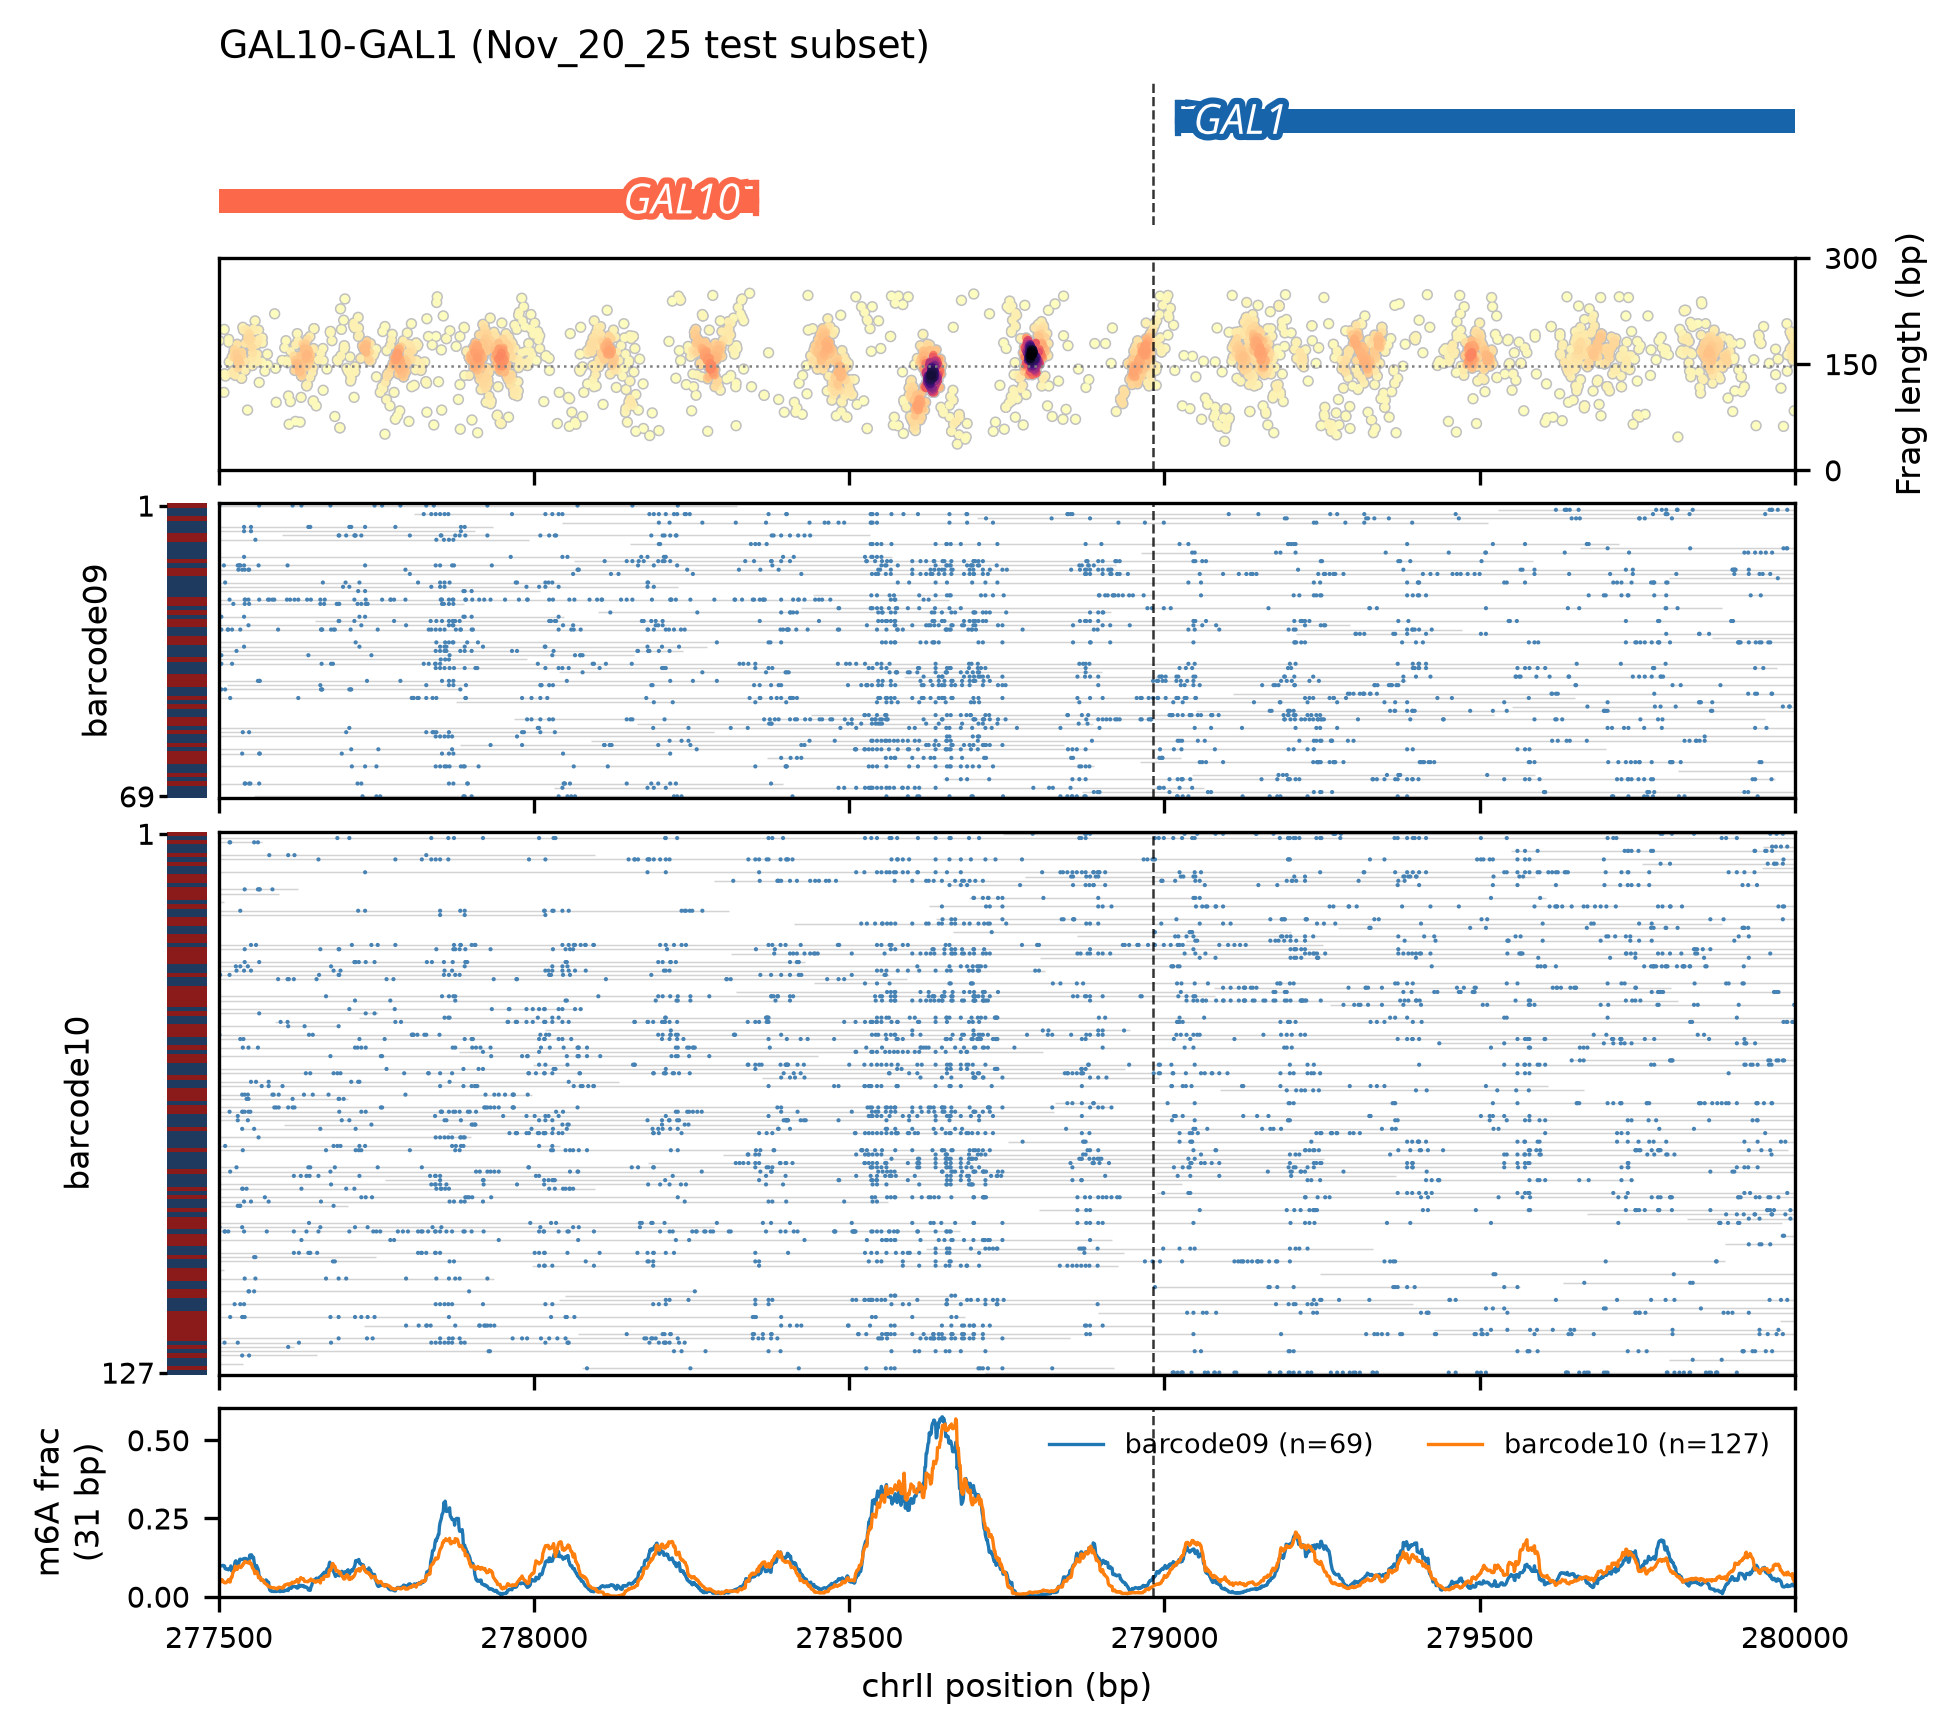
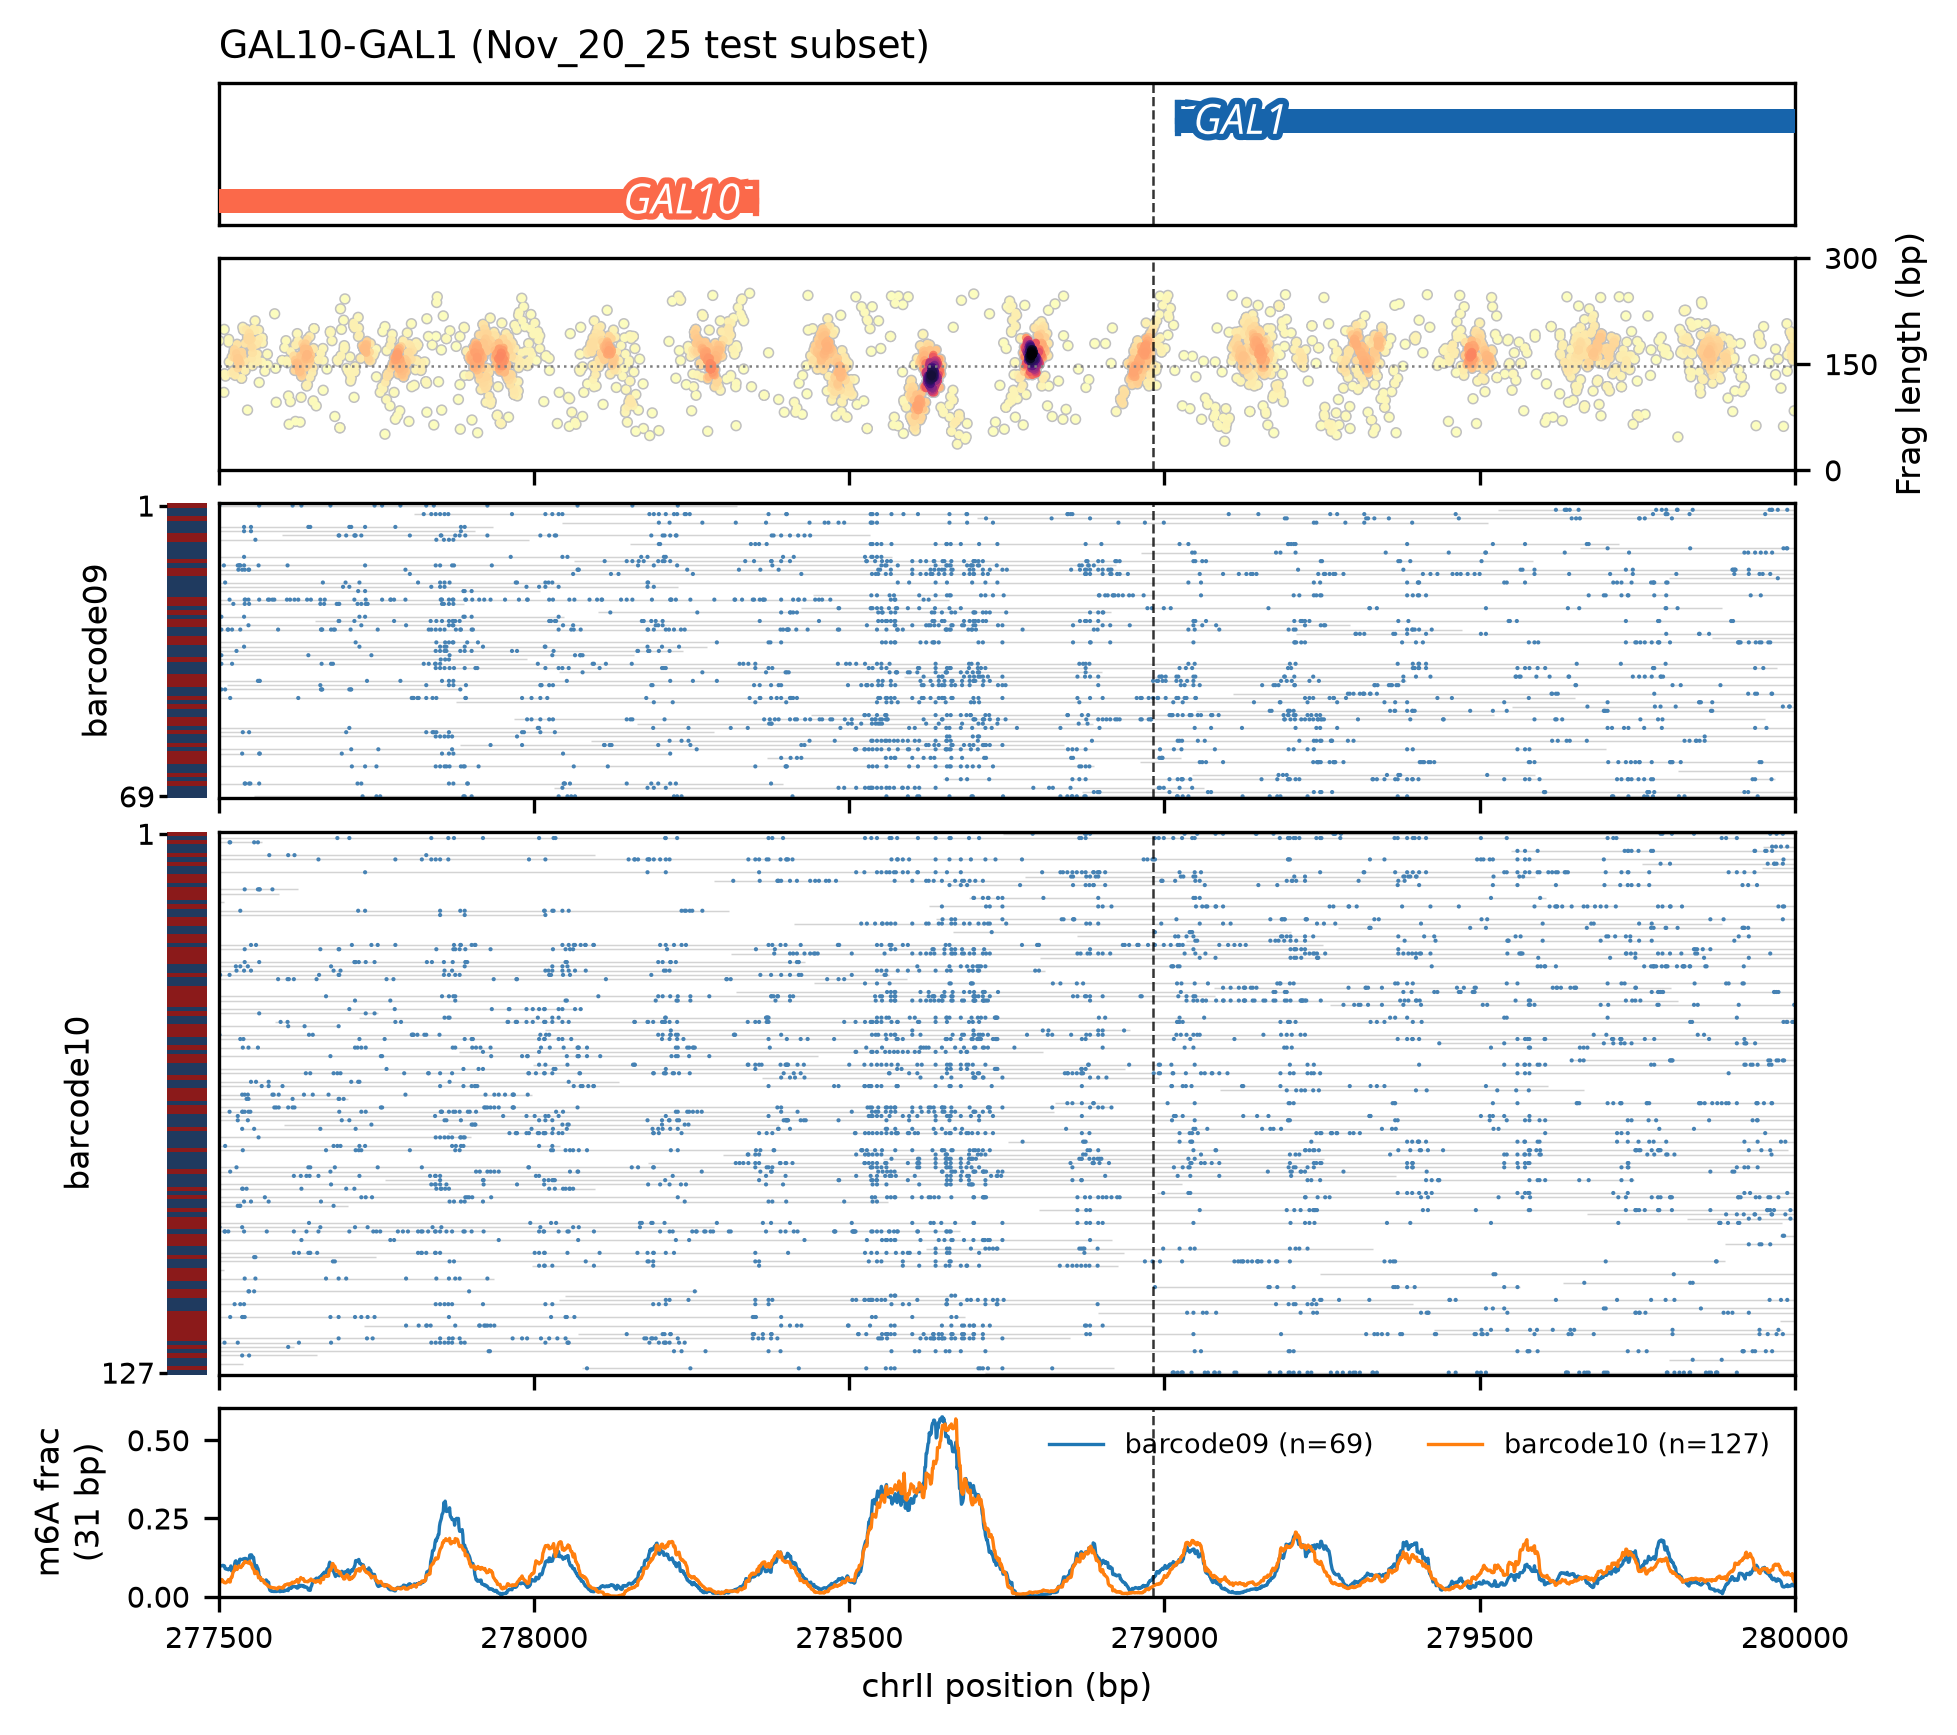
Frame the gene track by default, as in Fiber_seq_plots.py (--no-gene-box for paper style)

diff --git a/src/fibernhat/plot/fibers.py b/src/fibernhat/plot/fibers.py
@@ -48,10 +48,12 @@ def order_fibers(fibers: List[Fiber], how: str = "shuffle", seed: int = 0,
 # panels
 # --------------------------------------------------------------------------
 def draw_gene_track(ax, chrom: str, start1: int, end1: int, fontsize: float = 10,
-                    ylim: Tuple[float, float] = (-60, 118)):
+                    ylim: Tuple[float, float] = (-60, 118), box: bool = True):
     """SGD ORFs + TSS/PAS for [start1, end1] (1-based). Returns False if the
-    chromosome has no annotation. Box off, minor ticks cleared and ylim
-    (-60, 118) as in fig2_panels.draw_gene_track / build_tea1_plots.py."""
+    chromosome has no annotation. box=True keeps the full frame around the
+    track, as in Fiber_seq_plots.plot_single_locus_fiber_plot (L399-409);
+    box=False matches the paper/Strahl figures (fig2_panels L169-170).
+    Minor ticks cleared and ylim (-60, 118) as in build_tea1_plots.py."""
     from ..annotation import chrom_str_to_int, make_orf_annotation_plotter
     ci = chrom_str_to_int(chrom)
     if ci is None:
@@ -72,7 +74,7 @@ def draw_gene_track(ax, chrom: str, start1: int, end1: int, fontsize: float = 10
     ax.set_xticks([]); ax.set_xticks([], minor=True)
     ax.set_yticks([]); ax.set_yticks([], minor=True)
     for sp in ax.spines.values():
-        sp.set_visible(False)
+        sp.set_visible(box)
     return True
 
 
@@ -183,7 +185,7 @@ def fiberplot(fibers: List[Fiber], region: Tuple[str, int, int], out_prefix: str
               panels: Sequence[str] = DEFAULT_PANELS, split_by_label: bool = True,
               smooth: int = 31, width: float = 7.0, max_fiber_height: float = 7.0,
               formats=("png", "pdf"), dpi: int = 300, threshold_note: str = "",
-              show_note: bool = False, gene_fontsize: float = 10):
+              show_note: bool = False, gene_fontsize: float = 10, gene_box: bool = True):
     """Draw and save the composite figure. Returns list of written paths.
 
     panels: names drawn top to bottom, any subset/order of
@@ -227,7 +229,7 @@ def fiberplot(fibers: List[Fiber], region: Tuple[str, int, int], out_prefix: str
         if data_ax is None and kind != "genes":
             data_ax = ax
         if kind == "genes":
-            draw_gene_track(ax, chrom, s0 + 1, e0, fontsize=gene_fontsize)
+            draw_gene_track(ax, chrom, s0 + 1, e0, fontsize=gene_fontsize, box=gene_box)
             draw_marks(ax, marks)
         elif kind == "mnase":
             draw_mnase(ax, mnase["mid"].values, mnase["length"].values, s0 + 1, e0)

diff --git a/src/fibernhat/cli.py b/src/fibernhat/cli.py
@@ -173,7 +173,7 @@ def cmd_fiberplot(a, cfg):
                       sort=a.sort, seed=a.seed, mnase=mn, marks=marks, panels=panels,
                       split_by_label=not a.pool, smooth=a.smooth, width=a.width,
                       formats=tuple(a.formats.split(",")), threshold_note=note,
-                      show_note=a.call_note)
+                      show_note=a.call_note, gene_box=not a.no_gene_box)
     fiber_table(fibers).to_csv(os.path.join(out, name + "_fibers.tsv"), sep="\t", index=False,
                                float_format="%.4f")
     print("\n".join(paths))
@@ -333,6 +333,9 @@ def main(argv=None):
     p.add_argument("--mnase-bam", help="paired-end MNase BAM (default: config mnase_bam)")
     p.add_argument("--no-mnase", action="store_true"); p.add_argument("--no-genes", action="store_true")
     p.add_argument("--no-pileup", action="store_true")
+    p.add_argument("--no-gene-box", action="store_true",
+                   help="no frame around the gene track (paper-figure style); default keeps the frame "
+                        "as in Fiber_seq_plots.py")
     p.add_argument("--smooth", type=int, default=31, help="pileup box smoothing (bp)")
     p.add_argument("--width", type=float, default=7.0)
     p.add_argument("--seed", type=int, default=0); p.add_argument("--formats", default="png,pdf")

diff --git a/.claude/skills/raw-fiberplot/SKILL.md b/.claude/skills/raw-fiberplot/SKILL.md
@@ -13,12 +13,12 @@ description: Plot raw single-molecule fiber-seq (m6A) fiberplots of a genomic re
     --mark 278982 --title "GAL10-GAL1" -o outputs/fiberplots
 # options: --panels genes,mnase,fibers,pileup (any subset, any order, top to bottom)
 #          --sort shuffle|start|meth|length|strand  --max-reads 300  --require-span
-#          --pool (one fiber panel)  --no-mnase  --no-genes  --no-pileup  --smooth 31  --call-note
+#          --pool (one fiber panel)  --no-mnase  --no-genes  --no-pileup  --smooth 31  --call-note  --no-gene-box
 #          --threshold-ml 192 (paper figures)  --thresholds thr.tsv
 ```
 
 ## Figure, top to bottom (default `--panels genes,mnase,fibers,pileup`, the lab layout)
-1. **Gene track:** SGD R64-1-1 ORFs (Verified and Uncharacterized; Dubious hidden) with Park 2014 TSS/PAS arrows. Watson genes are blue, Crick genes red. No box, ylim (−60, 118), as in `fig2_panels`/`build_tea1_plots.py`.
+1. **Gene track:** SGD R64-1-1 ORFs (Verified and Uncharacterized; Dubious hidden) with Park 2014 TSS/PAS arrows. Watson genes are blue, Crick genes red. Framed by a full box as in `Fiber_seq_plots.plot_single_locus_fiber_plot`; `--no-gene-box` gives the frameless paper/Strahl look. ylim (−60, 118) as in `build_tea1_plots.py`.
 2. **MNase V-plot** (only if `mnase_bam` is set in `config/site.yaml` or `--mnase-bam` is given): fragment midpoint vs length, coloured by 2-D KDE, with a dotted line at 147 bp. Y axis on the right (0/150/300).
 3. **Fibers:** one panel per sample (`--pool` for one panel, as in the paper figures). Rows are shuffled with a fixed seed. Each read is a grey line with a steelblue dot per methylated A. The left sidebar shows strand (+ navy, − dark red).
 4. **m6A pileup:** per sample, methylated/called A per bp with a 31 bp box smoothing. Positions covered by fewer than 5 reads are hidden. This panel is a fibernhat addition (not in the paper locus figures); drop it with `--no-pileup`.

diff --git a/CHANGELOG.md b/CHANGELOG.md
@@ -13,7 +13,7 @@
 - Plot layout matches the lab figure scripts:
   - Fiberplot panels top to bottom: genes, MNase, fibers, pileup. `--panels` picks and reorders them.
   - Aggregate panels: MNase, fibers, methylation counts, methylated/possible A ratio (unsmoothed). `--panels` picks and reorders them.
-  - Gene track uses ylim (−60, 118) with minor ticks cleared. MNase y axis is on the right.
+  - Gene track is framed by a box as in `Fiber_seq_plots.py` (`--no-gene-box` for the paper look), uses ylim (−60, 118) and has minor ticks cleared. MNase y axis is on the right.
   - Data panels have a full box. The QC whitegrid style no longer leaks into other figures.
   - Default row order: fiberplot shuffle (seed 0), aggregate `meth_in_win`.
   - No automatic titles or footers (`--title`, `--call-note`).
